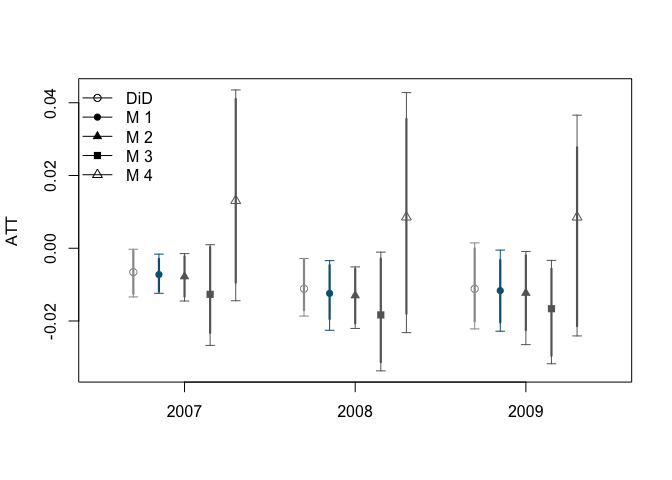
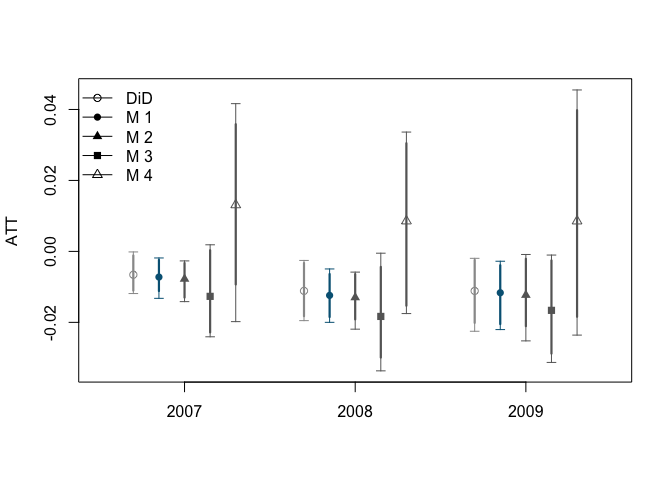
update readme

diff --git a/README.md b/README.md
@@ -68,14 +68,14 @@ fit_np <- did(lnavgsalary_cpi ~ oncycle, data = anzia2012,
 summary(fit_np)
 ```
 
-    ##                                2007             2008             2009
-    ## 1   D-DiD      ATT           -0.007           -0.012           -0.012
-    ## 2           95% CI [-0.012, -0.002] [-0.023, -0.003] [-0.023, -0.001]
-    ## 3              BIC          -18.018          -18.018          -18.018
-    ## 4             HQIC           -9.147           -9.147           -9.147
-    ## 5         Selected               M1               M1               M1
-    ## 6 Std-DiD      ATT           -0.007           -0.011           -0.011
-    ## 7           95% CI      [-0.013, 0] [-0.019, -0.003]  [-0.022, 0.001]
+    ##                                2007            2008             2009
+    ## 1   D-DiD      ATT           -0.007          -0.012           -0.012
+    ## 2           95% CI [-0.013, -0.002] [-0.02, -0.005] [-0.022, -0.003]
+    ## 3              BIC          -18.018         -18.018          -18.018
+    ## 4             HQIC           -9.147          -9.147           -9.147
+    ## 5         Selected               M1              M1               M1
+    ## 6 Std-DiD      ATT           -0.007          -0.011           -0.011
+    ## 7           95% CI      [-0.012, 0] [-0.02, -0.003] [-0.023, -0.002]
 
 ``` r
 # plot results 
@@ -151,7 +151,7 @@ summary(fit_p2)
 
 ``` r
 # plot function 
-par(mfrow = c(1,2), mar = c(4, 4, 3.5, 1))
+par(mfrow = c(1,2), mar = c(4, 2.5, 3.5, 1))
 plot(fit_p1, full = TRUE, ylim = c(-0.025, 0.005), xlim = c(-0.5, 3.5), main = "With Covariates")
 abline(h = 0, col = 'gray', lwd = 1.5, lty = 3)
 plot(fit_p2, full = TRUE, ylim = c(-0.025, 0.005), xlim = c(-0.5, 3.5), main = 'Without Covariates')
